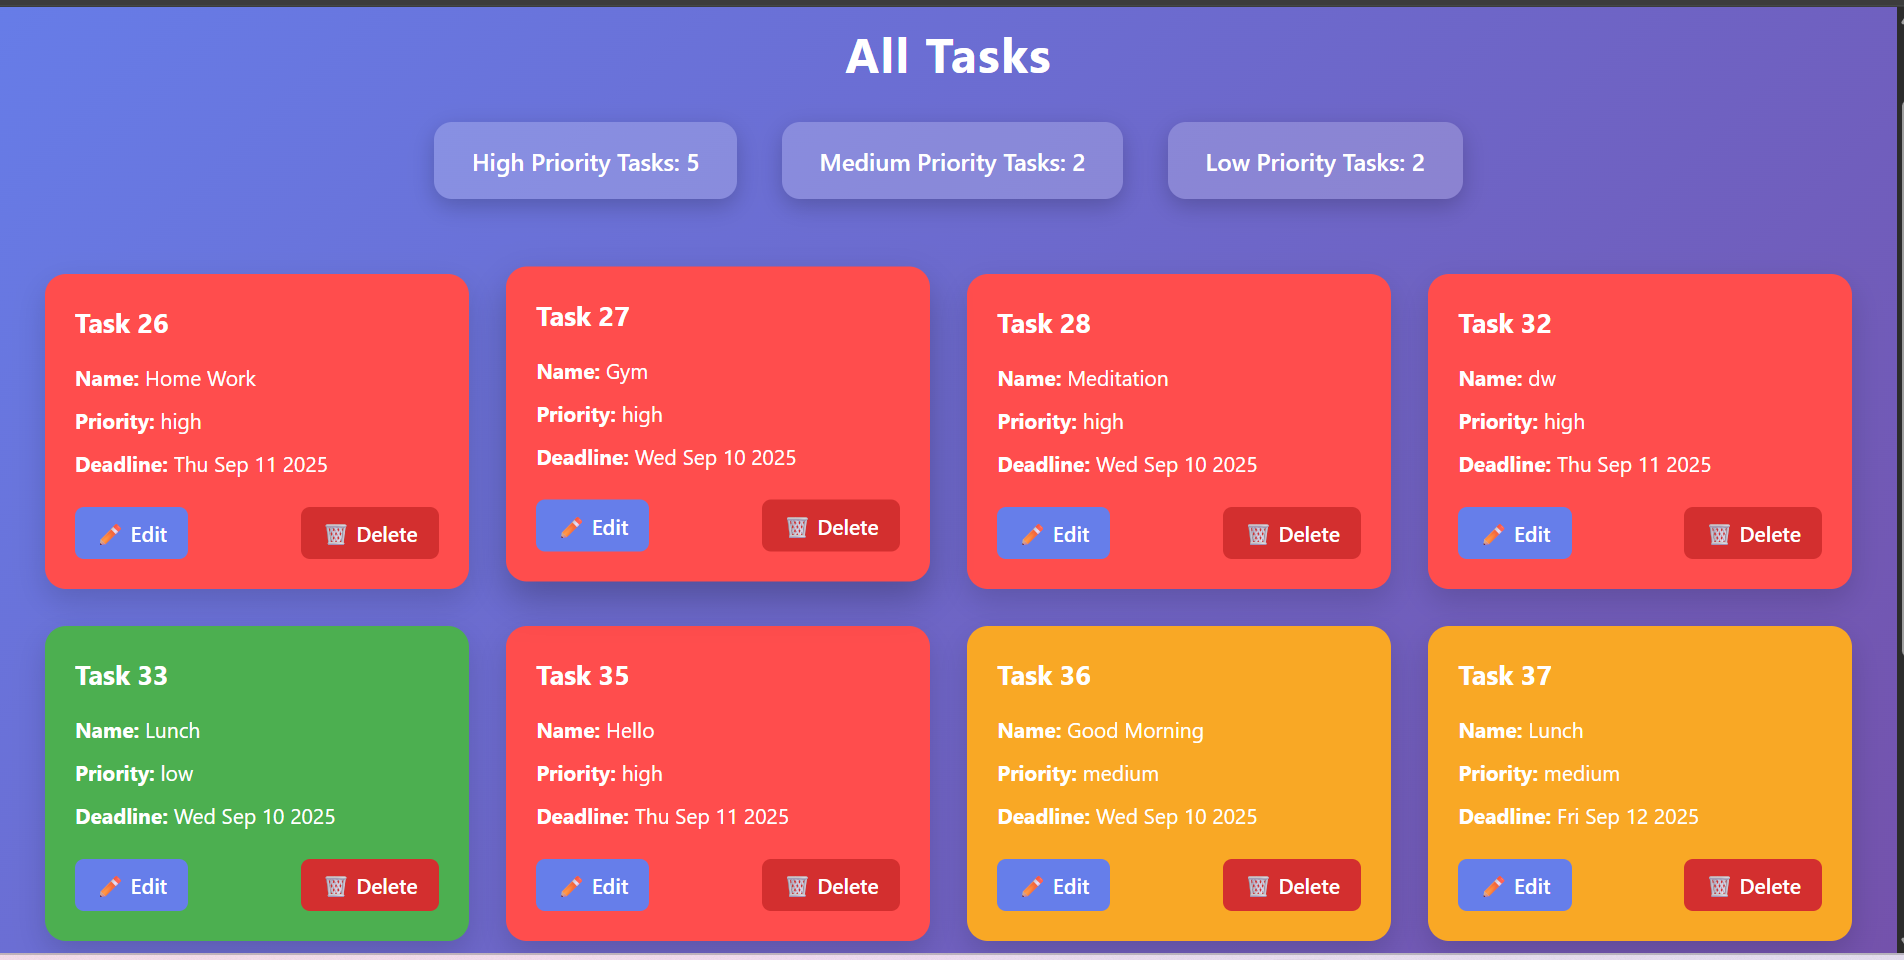
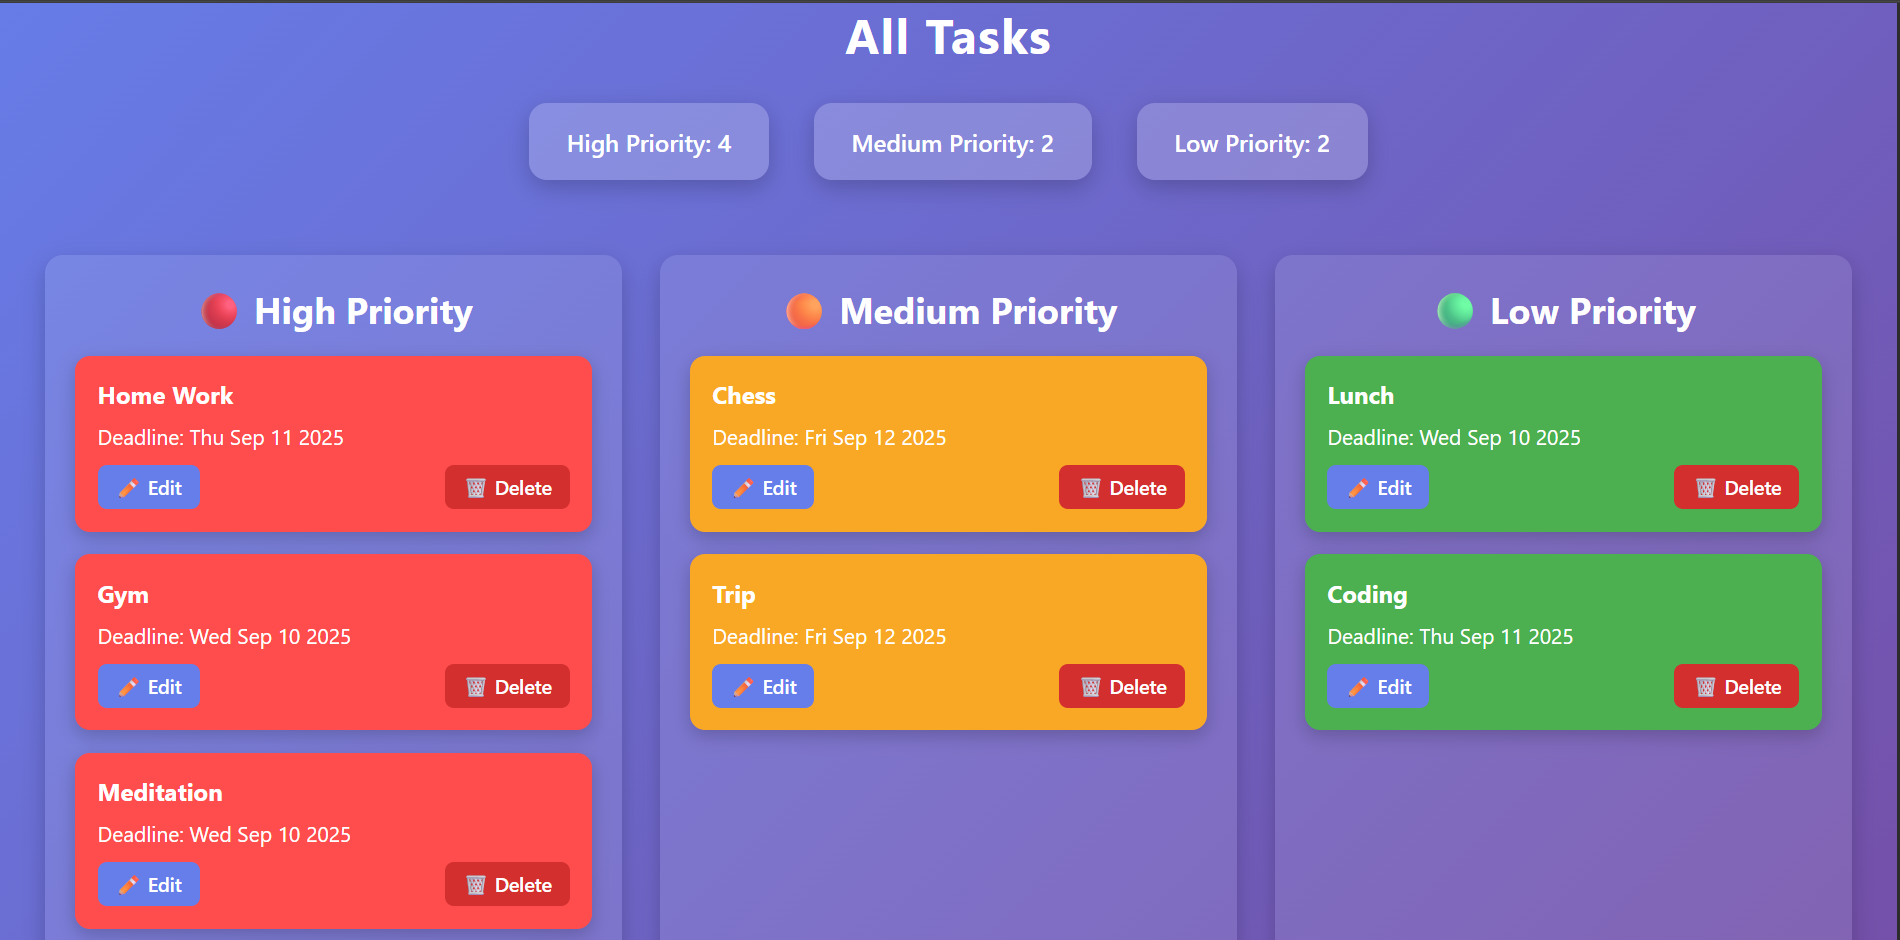
added task category

diff --git a/model/todo.js b/model/todo.js
@@ -11,7 +11,7 @@
         allowNull:false,
       },
       priority: {
-        type: Sequelize.STRING,
+        type: Sequelize.ENUM("high", "medium", "low"),
         allowNull: false,
       },
     });

diff --git a/README.md b/README.md
@@ -8,12 +8,18 @@ This project demonstrates CRUD operations (Create, Read, Update, Delete) with a 
 ---
 
 ## 🚀 Features
-- ➕ Add new tasks with **priority** and **deadline**
+- ➕ Add new tasks with priority and deadline
+- 🎨 Tasks are displayed with color-coded backgrounds based on priority:
+- 🔴 High Priority → Red background
+- 🟠 Medium Priority → Orange background
+- 🟢 Low Priority → Green background
+- 📊 Priority statistics (High, Medium, Low counts) shown at the top for quick overview
 - 📃 View all tasks in a clean card-based UI
-- ❌ Delete tasks easily
+- ✏ Edit and update tasks easily
+- ❌ Delete tasks in one click
 - ⚡ Sequelize ORM for smooth database operations
 - 🎨 Pug template engine for server-side rendering
-- 🏗 Follows **MVC architecture**
+- 🏗 Follows MVC architecture
 
 ---
 
@@ -26,8 +32,8 @@ This project demonstrates CRUD operations (Create, Read, Update, Delete) with a 
 
 ---
 ## 🖼 Screenshots
-<!-- ➕ Add Task Page
-![Add Task Page](./public/assets/createTask.png) -->
+➕ Add Task Page
+![Add Task Page](./public/assets/createTask.png)
 
 ### 📌 Add Task Page
 ![Task List Page](./public/assets/allTask.png) 
